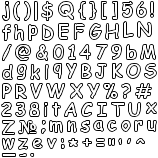
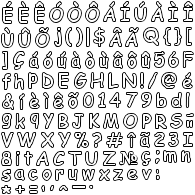
feat: telinha de tutorial legal

diff --git a/core/src/main/java/br/unip/aps/sustentabilidade/TelaTutorial.java b/core/src/main/java/br/unip/aps/sustentabilidade/TelaTutorial.java
@@ -24,20 +24,23 @@ public class TelaTutorial implements Screen {
     // --- VARIÁVEIS DA ANIMAÇÃO ---
     private Texture spriteSheetNPC;
     private Animation<TextureRegion> animacaoNPC;
-    private float tempoDaAnimacao; // Relógio da animação
+    private float tempoDaAnimacao;
 
     private int paginaAtual = 0;
 
-    // As falas do seu tutorial! Você pode adicionar quantas quiser.
+    // --- NOVOS DIÁLOGOS COM FOCO EM ESTRATÉGIA (COM ACENTUAÇÃO) ---
     private String[] dialogos = {
-        "Ola, Defensor! O parque esta sob o ataque\nde poluidores. Precisamos da sua ajuda!",
-        "O seu objetivo e simples: use suas Eco-Moedas\npara construir defesas e impedir o avanco deles.",
-        "Clique no botao '>> Loja' no canto direito para\nabrir o menu de construcao e ver as torres.",
-        "Cada torre tem uma funcao: A Sementeira atira \nde longe, o Filtro limpa em area...",
-        "...A Planta prende inimigos, o Bambu da muito dano \ne a Arvore Ancia gera mais dinheiro com o tempo!",
-        "Voce tambem pode comprar Upgrades na loja \npara melhorar as suas torres ja construidas.",
-        "DICA: Se precisar de espaco ou dinheiro, clique \ncom o BOTAO DIREITO em uma torre para vende-la.",
-        "A natureza conta com voce. Boa sorte!"
+        "Olá, Defensor! O parque está sob o ataque\nde poluidores. Precisamos da sua ajuda!",
+        "O seu objetivo é simples: use suas Eco-Moedas\npara construir defesas e impedir o avanço deles.",
+        "Clique no botão '>> Loja' no canto direito para\nabrir o menu de construção e planejar a defesa.",
+        "Estratégia é tudo! A 'Sementeira' é barata\ne ótima para segurar as primeiras ondas.",
+        "Muitos inimigos juntos? Use o 'Macaco Baloeiro'!\nO balão de água explode e dá dano em área em todos.",
+        "Se vierem inimigos rápidos, o 'Mano CC' é a\nsolução. Ele solta raízes que travam os monstros!",
+        "A 'Fonte Pura' ataca rápido com água. Já o\n'Bambu Sniper' custa caro, mas derrete os fortes!",
+        "E para ficar rico: plante o 'Mr Tree' no início!\nEle não ataca, mas gera moedas durante a partida.",
+        "Sobrou dinheiro? Compre UPGRADES na loja para\naumentar o dano, alcance e velocidade das torres.",
+        "DICA: Clique com o BOTÃO DIREITO em uma torre\npara vendê-la e recuperar metade do valor investido.",
+        "O parque conta com você. Boa sorte!"
     };
 
     public TelaTutorial(SustentabilidadeGame game) {
@@ -128,10 +131,7 @@ public class TelaTutorial implements Screen {
 
         // --- DESENHA A ANIMAÇÃO DA GUIA ---
         if (animacaoNPC != null) {
-            // Pede o frame correto baseado no tempo
             TextureRegion frameAtual = animacaoNPC.getKeyFrame(tempoDaAnimacao);
-
-            // Desenha com 300x400 (metade do tamanho original para ficar em HD)
             game.batch.draw(frameAtual, 80, 250, 300, 400);
         }
 
@@ -160,6 +160,6 @@ public class TelaTutorial implements Screen {
     @Override
     public void dispose() {
         if (texturaMapa != null) texturaMapa.dispose();
-        if (spriteSheetNPC != null) spriteSheetNPC.dispose(); // Limpa a folha de sprites da memória
+        if (spriteSheetNPC != null) spriteSheetNPC.dispose();
     }
 }